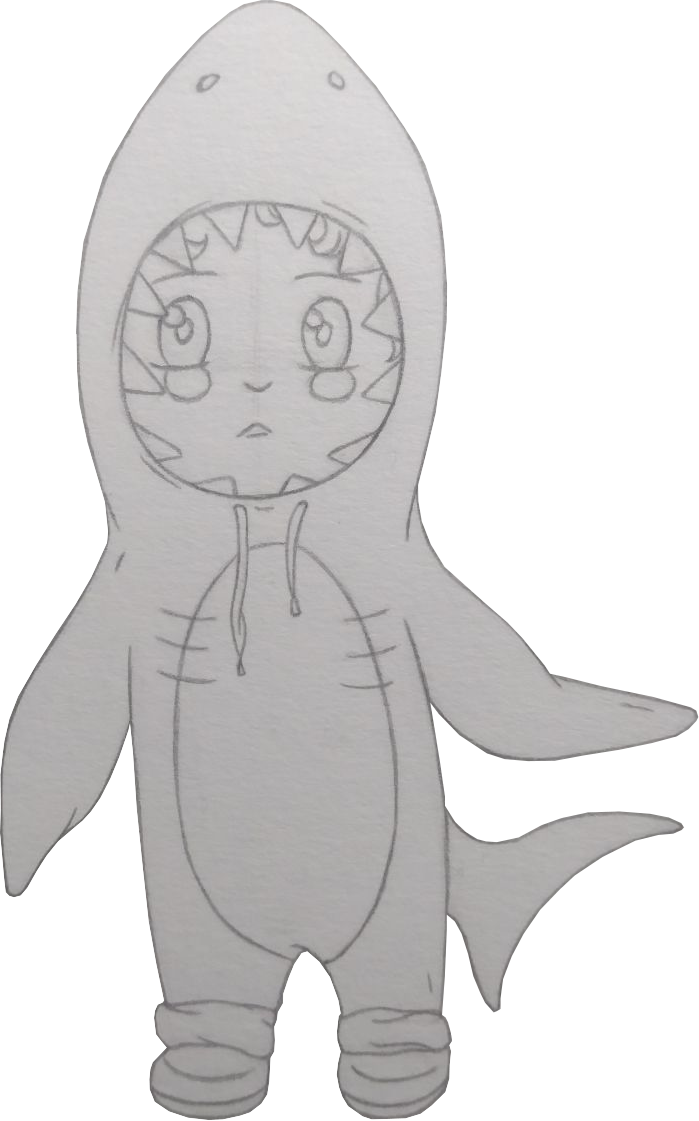
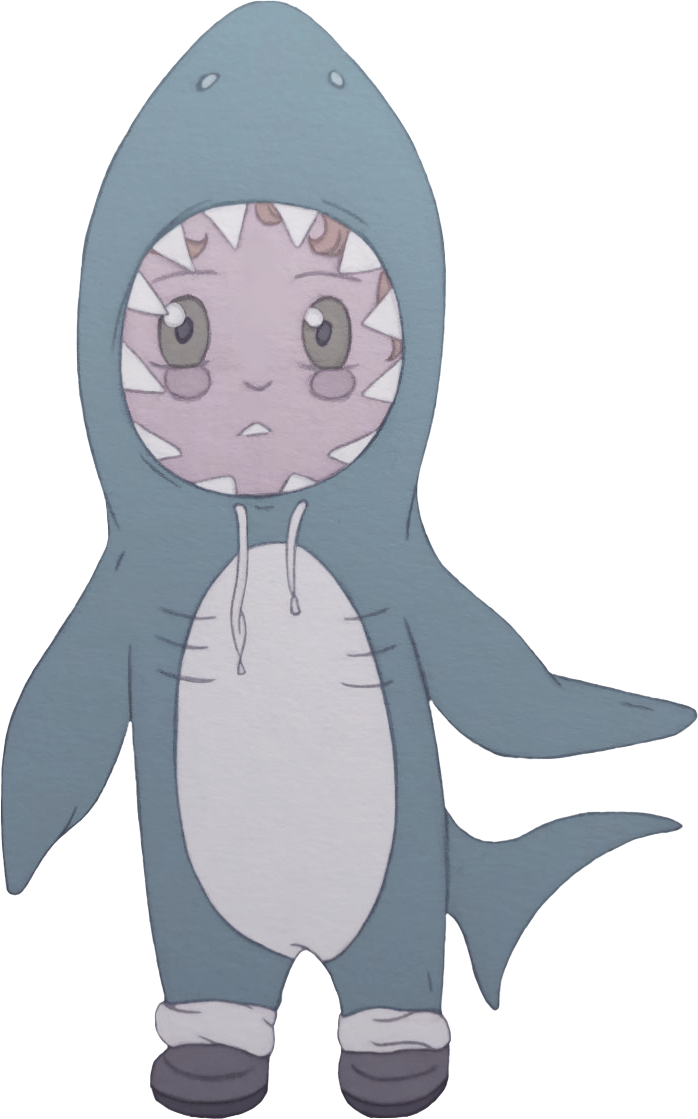
Beach room colouring complete.

diff --git a/static/myStyle.css b/static/myStyle.css
@@ -687,8 +687,8 @@
     grid-column: 4.6;
     grid-row: 1;
     margin-top: 0vh;
-    margin-bottom: 50vh;
-    margin-left: 3.5vw;
+    margin-bottom: 48vh;
+    margin-left: 3vw;
     opacity: 0%;
     pointer-events: none;
 }
@@ -699,7 +699,7 @@
     grid-column: 11.2;
     grid-row: 4;
     margin-top: 15vh;
-    margin-left: 51.5vw;
+    margin-left: 50.5vw;
     opacity: 0%;
     pointer-events: auto;
 }
@@ -709,8 +709,8 @@
     height: 22vh;
     grid-column: 7.7;
     grid-row: 5;
-    margin-top: 20vh;
-    margin-left: 33.5vw;
+    margin-top: 21vh;
+    margin-left: 32.6vw;
     opacity: 0%;
     pointer-events: auto;
 }
@@ -748,11 +748,11 @@
     width: 34vw;
     grid-column: 11.7;
     grid-row: 9;
-    margin-top: 40vh;
+    margin-top: 40.5vh;
     margin-left: 53.5vw;
     opacity: 0%;
     pointer-events: none;
-    color: #85d4dd;
+    color: #97b1c4;
 }
 
 #answerSharkie1 {
@@ -800,7 +800,7 @@
     margin-left: 53vw;
     opacity: 0%;
     pointer-events: none;
-    color: #85d4dd;
+    color: #97b1c4;
 }
 
 #sharkieResponse2 {
@@ -814,7 +814,7 @@
     margin-left: 55vw;
     opacity: 0%;
     pointer-events: none;
-    color: #85d4dd;
+    color: #97b1c4;
 }
 
 #beachUIBarLayer {
